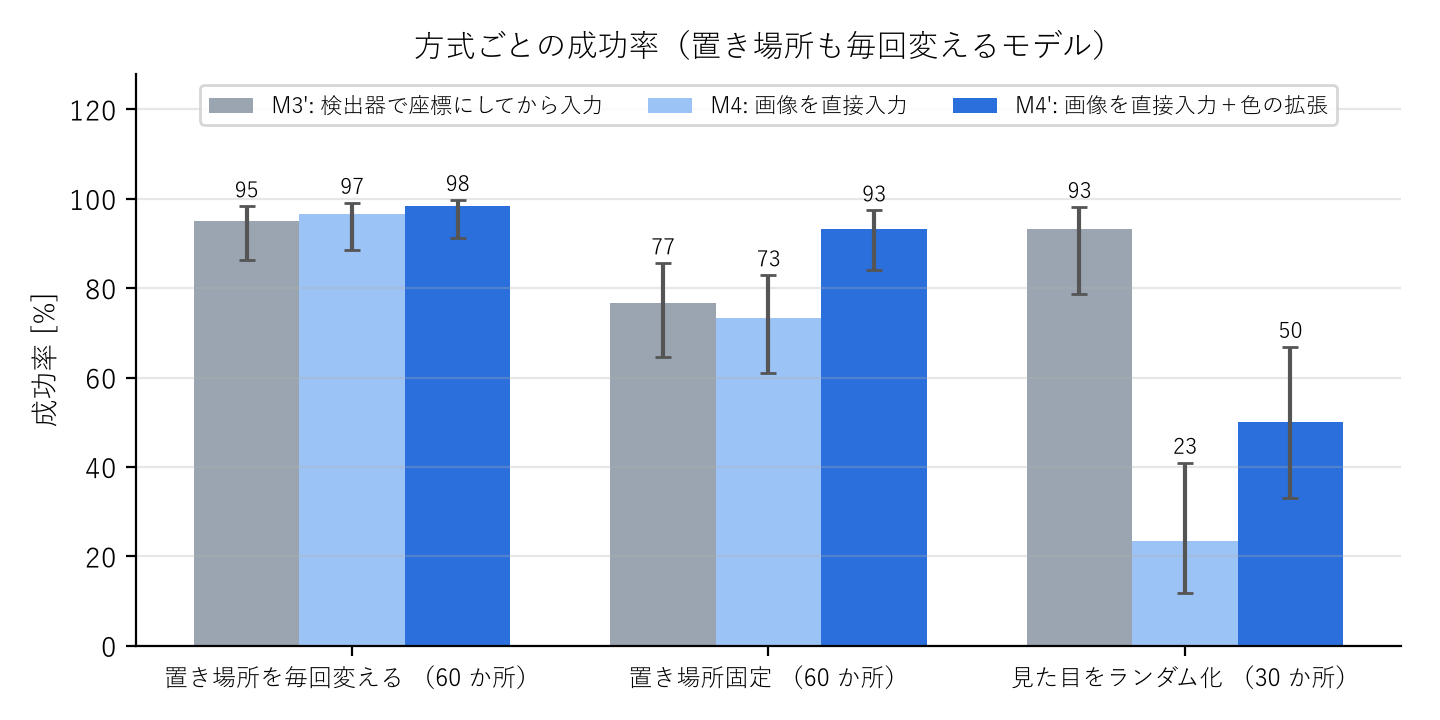
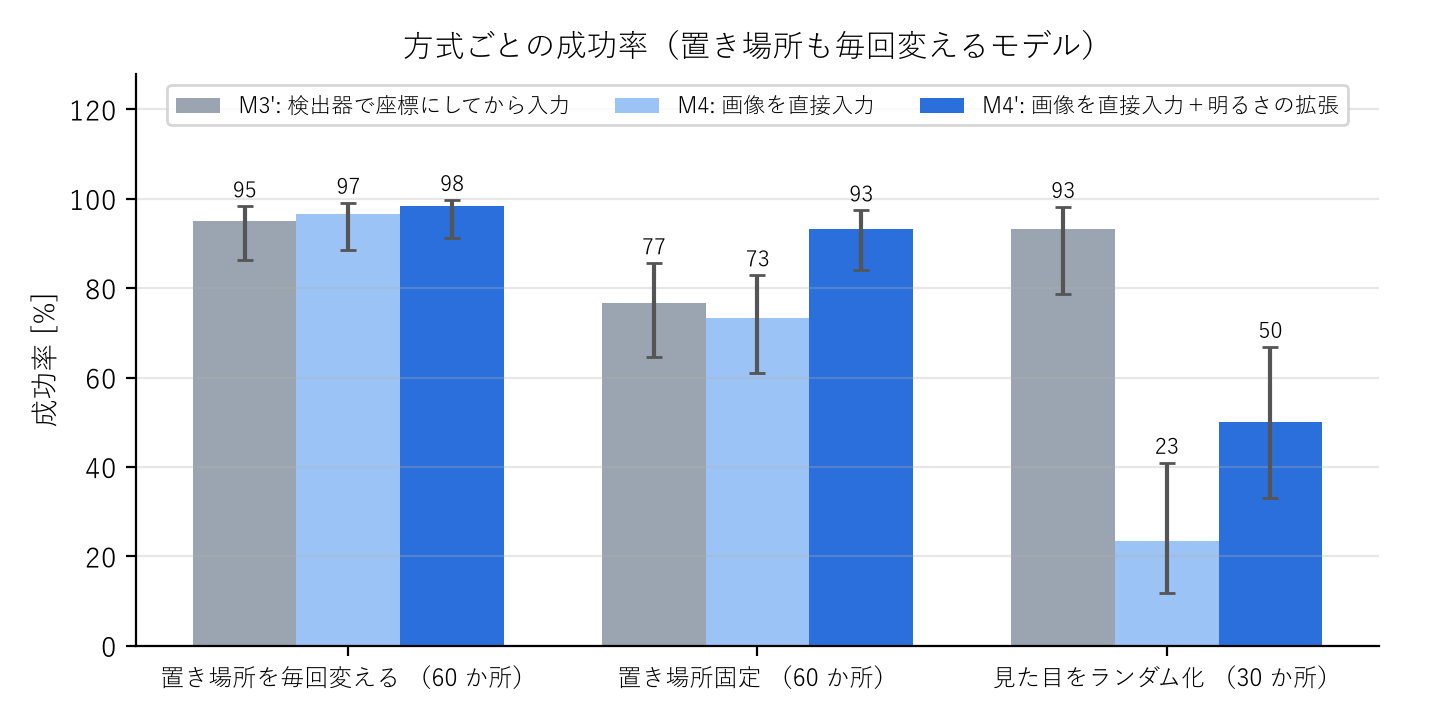
説明資料の表現を見直し: M4' を「明るさの拡張」に、5 章の課題を整理、図13 の注記を直し、DART の段落を削除
- M4' の呼び名を「色の拡張」から「明るさの拡張」に（色相はほぼ変えない）。説明資料・README・動画・ADR 0011・training_eval をそろえた
- 5 章: 検出器の項目を削除、アシストの項目を短くし「保持」に、組み合わせの項目を「置き場所の変化に敏感」に改題・短縮
- 図13（旧図14）: 注記を「位置を読み取るのは誰か」と「物体の色・照明・ダミーの箱の変化に対する頑健性」にし、箱との重なりを解消
- 4.10 の DART の段落と図を削除し、図番号を繰り下げ

diff --git a/docs/report/report.md b/docs/report/report.md
@@ -47,7 +47,7 @@ Gazebo 上のロボットアーム CRANE+ V2 に、**机の上のランダムな
 
 | 構成要素 | 内容 |
 |---|---|
-| タスク環境（ROS 2 パッケージ） | 物体のランダム配置、成功判定、把持アシスト、俯瞰カメラでの物体位置推定、自動評価 |
+| タスク環境（ROS 2 パッケージ） | 物体のランダム配置、成功判定、掴んだ物体を手先に固定するアシスト、俯瞰カメラでの物体位置推定、自動評価 |
 | ブラウザ UI | 手先位置（xyz・pitch）での操作、録画、方策の ON/OFF |
 | 学習・推論（サンプルの pai_training を fork） | 物体位置付きの変換、GPU 学習、推論ノード（rerun で予測を可視化） |
 | 開発環境 | Docker（GPU 対応）。サンプルの Docker イメージをベースに再現可能に構築 |
@@ -69,10 +69,10 @@ Gazebo 上のロボットアーム CRANE+ V2 に、**机の上のランダムな
 | M3 | 置き場所ランダムのモデル | 関節角＋物体位置＋置き場所 | 置き場所も毎回変えた 339 本 | 4.10 |
 | M3' | 〃（保持中の物体位置を据え置き） | M3 と同じ。ただし物体を保持している間（グリッパが閉じている間）は、物体位置を閉じる直前の値のまま更新しない | M3 と同じ 339 本 | 1、4.10、4.11 |
 | M4 | 画像入力のモデル | 関節角＋俯瞰カメラ画像（座標なし） | 置き場所も毎回変えた画像つき 346 本 | 4.11 |
-| M4' | 〃（色の拡張） | M4 と同じ（学習時に画像の色をランダムに変える） | M4 と同じ 346 本 | 1、4.11 |
+| M4' | 〃（明るさの拡張） | M4 と同じ（学習時に明るさ・コントラスト・彩度を変える。色相はほぼ変えない） | M4 と同じ 346 本 | 1、4.11 |
 
 <p class="note">M0〜M3' は、学習したモデルはそのままで、物体位置（・置き場所）の入力を真値・俯瞰カメラの赤色検出・学習した検出器に差し替えて評価しています。
-4.9 では M2 の学習データを人手デモに変えた変種、4.10 では M3' の学習データを倍の 701 本にした変種と外乱入りの 343 本（DART）の変種も使います。</p>
+4.9 では M2 の学習データを人手デモに変えた変種、4.10 では M3' の学習データを倍の 701 本にした変種も使います。</p>
 
 </div>
 
@@ -90,11 +90,11 @@ Gazebo 上のロボットアーム CRANE+ V2 に、**机の上のランダムな
 
 ### 4.3 スクリプトデモによる学習データの自動生成
 条件をそろえた比較実験を繰り返すため、学習データは人の操作ではなく、物体位置から IK で軌道を計画する**スクリプトデモ**で自動生成しました。
-人のテレオペと同じ経路（手先指令 → IK → 関節指令）で収録し、速度・経由点の高さ・把持位置・開始姿勢にばらつきを入れています（seed で再現可能）。
+人のテレオペと同じ経路（手先指令 → IK → 関節指令）で収録し、速度・経由点の高さ・掴む位置・開始姿勢にばらつきを入れています（seed で再現可能）。
 
 ### 4.4 temporal ensembling で実行時の誤差の蓄積を抑制
 <p class="note">使うモデル: M0・M1（3 章のモデル一覧）</p>
-学習データ上での予測誤差は小さいのに、実行すると把持位置が 1.5〜2.5cm ずれていました。毎ステップ予測した行動チャンク（0.75 秒分）の
+学習データ上での予測誤差は小さいのに、実行すると掴む位置が 1.5〜2.5cm ずれていました。毎ステップ予測した行動チャンク（0.75 秒分）の
 先頭だけを実行していたため、誤差が蓄積していたことが原因です。重なった予測を指数重みで平均する temporal ensembling を推論時に入れただけで、
 **再学習なしで成功率が 55% → 100%** になりました（図4）。
 
@@ -190,50 +190,38 @@ Gazebo 上のロボットアーム CRANE+ V2 に、**机の上のランダムな
 推論時の設定を変えても成功率は変わらず、失敗する場所が入れ替わるだけだったため、掴む動作の精度に余裕がないことが原因と考えています
 （4.11 で、失敗が物体と置き場所の組み合わせの薄い配置に集まることが分かりました。5 章）。
 
-**外乱入りのデモ（DART）**: スクリプトデモは計画どおりの軌道しか含まないため、「ずれた状態から物体の真上へ戻す」例がありません。
-そこで DART（Laskey et al., 2017）にならい、デモの収録時に**実際に動かす手先の目標にだけ最大 1cm の外乱を加え、学習のラベルには外乱なしの指令を使う**ようにしました。
-外乱は物体へ近づいて下ろす区間だけに入れ、閉じる前に 0 に戻します。同じ本数（343 本）で学習し直すと、置き場所固定では 87% → 97%（58/60）に上がり、
-左側の失敗はほぼ消えました。一方、置き場所を毎回変える課題では 97% → 88%（53/60）に下がり、正面の奥寄りで失敗が増えました（図13）。
-合計は 110/120 と 111/120 で変わらず、どちらの差も有意ではありません。失敗する場所が移っただけで、掴む精度の余裕は増えませんでした。
-
-<figure><img src="img/fig_dart.png" class="w70"><figcaption>図13 外乱入りのデモの効果（灰: M3'＝外乱なしのデモ、青: M3' と同じ観測で外乱入りのデモ（DART）。物体と置き場所の組を固定した 60 か所）</figcaption></figure>
-
 ### 4.11 画像を方策に直接入れる（追加実験）
 <p class="note">使うモデル: M3'・M4・M4'（3 章のモデル一覧）</p>
-4.10 までの方策は、カメラ画像を検出器で物体・置き場所の座標（数値）にしてから受け取っていました。これと、**画像を方策に直接入れ、座標を一切与えない**方式（M4・M4'）を比べました（図14）。
+4.10 までの方策は、カメラ画像を検出器で物体・置き場所の座標（数値）にしてから受け取っていました。これと、**画像を方策に直接入れ、座標を一切与えない**方式（M4・M4'）を比べました（図13）。
 ACT は画像を ImageNet で事前学習した ResNet18 で読み込み、関節角とあわせて行動を出力します。学習データは 4.10 と同じ条件・seed のスクリプトデモを
 俯瞰カメラの画像つきで収録し直した 346 本で、学習は同じ 80k step です。
 
-<figure><img src="img/image_vs_detector.svg" class="w90"><figcaption>図14 カメラ画像を方策に渡す 2 つの方式（(a) 検出器で座標にしてから入力＝M3'、(b) 画像を直接入力＝M4・M4'）</figcaption></figure>
+<figure><img src="img/image_vs_detector.svg" class="w90"><figcaption>図13 カメラ画像を方策に渡す 2 つの方式（(a) 検出器で座標にしてから入力＝M3'、(b) 画像を直接入力＝M4・M4'）</figcaption></figure>
 
 - **置き場所を毎回変える課題**では、座標を与えなくても検出器経由と同等に運べました（検出器経由 95%、画像直接 97%）。
 - **置き場所固定の元の課題**（置き場所は範囲の右奥の角）では、画像直接は 73% に下がりました。物体の真上までは行くのに高さ 4.4cm でグリッパを閉じて掴み損ねており、
   置き場所を左右反転したり数 cm 内側にずらすと、同じ物体位置で成功しました。範囲の角の置き場所と左寄りの物体の組み合わせは、ランダムに集めたデモ 346 本に 1〜2 本しかなく、
   そこを補間できていないと考えています（検出器経由の失敗も同じ左寄りの配置に集まっています）。
-  学習時に画像の**明るさ・コントラスト・彩度・色相をランダムに変える拡張**を入れると（M4'）93% に上がり、検出器経由（77%）を上回りました（Fisher の正確検定 p≈0.02）。
-  色や明るさの細かい見え方に頼っていたことが、崩れの一因だったと考えられます。
-- **見た目をランダム化したシーン**では、画像直接は 23%（色の拡張ありで 50%）にとどまり、検出器経由（93%）に及びませんでした。
+  学習時に画像の**明るさ・コントラスト・彩度をランダムに変える拡張**（色相はほぼ変えない）を入れると（M4'）93% に上がり、検出器経由（77%）を上回りました（Fisher の正確検定 p≈0.02）。
+  色や明るさの細かい見え方に頼っていたことが、失敗の一因だったと考えられます。
+- **見た目をランダム化したシーン**では、画像直接は 23%（明るさの拡張ありで 50%）にとどまり、検出器経由（93%）に及びませんでした。
   ただしこの差には学習データの違いも含まれます。検出器は見た目をランダム化した静止画で学習していますが、画像直接の方策は元の見た目のデモだけで学習しています。
 
-画像を直接入れる方式は、座標の設計や検出器がなくても学習データの範囲内では同等に動きます。一方で、見た目への強さも方策自身が学ぶ必要があり、
-強くするには見た目を変えたシーンでデモ（ロボットの動作）を集め直す必要があります。検出器を挟む方式では、それが静止画の収集だけで済みます。
+画像を直接入れる方式は、座標の設計や検出器がなくても学習データの範囲内では同等に動きます。一方で、物体の色・照明・ダミーの箱の変化に対する頑健性も方策自身が学ぶ必要があり、
+そのためには見た目を変えたシーンでデモ（ロボットの動作）を集め直す必要があります。検出器を挟む方式では、それが静止画の収集だけで済みます。
 今回は同じデモで学習した場合の比較として、見た目への対策はあえて加えていません。
 
-<figure><img src="img/fig_image_direct.png" class="w80"><figcaption>図15 方式ごとの成功率（灰: M3'＝検出器経由、水色: M4＝画像を直接入力、青: M4'＝画像を直接入力＋色の拡張。物体と置き場所の組を固定した 60 か所、見た目のランダム化は 30 か所）</figcaption></figure>
+<figure><img src="img/fig_image_direct.png" class="w80"><figcaption>図14 方式ごとの成功率（灰: M3'＝検出器経由、水色: M4＝画像を直接入力、青: M4'＝画像を直接入力＋明るさの拡張。物体と置き場所の組を固定した 60 か所、見た目のランダム化は 30 か所）</figcaption></figure>
 
 ## 5. 課題と今後
 
 - **人のデモでは学習できていない**: 人手デモ 21 本では成功せず、混ぜると成功率が下がりました（4.9）。操作の一貫性をそろえたデモでの再検証が残っています。
-- **物体検出器はシミュレーション画像だけで学習**: 見た目の変化には強くなりましたが、実機の画像での動作は未確認です。
-  シミュレーションでは正解の枠が正確で輪郭もくっきりしているため、0.28mm という精度は実機では期待できません。また、カメラの取り付け位置は既知としています。
-- **掴む動作のアシスト**: Gazebo では指の摩擦だけで掴んだ物体が滑り落ちるため、グリッパが閉じ、物体が手先から 2cm 以内にあるときに物体を手先に固定するアシストを使っています。
-  実機では把持の安定性を別途確認する必要があります。
+- **掴む動作のアシスト**: Gazebo では指の摩擦だけでは掴んだ物体が滑り落ちるため、グリッパが閉じたら物体を手先に固定するアシストを使っています。
+  実機では物体を保持できるかを別途確認する必要があります。
 - **データ量の交絡**: 開始姿勢ばらつきデモの追加ではデータ量も 2 倍になっています。過去にデータを 41 → 117 回に増やしても成功率は変わらなかったため、
   主因は開始姿勢の多様性と考えていますが、同数での比較は未実施です。
-- **物体と置き場所の組み合わせが学習データで薄い配置で失敗する（追加実験）**: 置き場所も毎回変えるモデルは 30 回中 1〜6 回、
-  狙いが数 mm ずれる、または浅い高さで閉じて物体を持ち上げられません。置き場所固定（範囲の右奥の角）では M3' でも M4' でも同じ左寄りの物体で失敗が集まり、
-  置き場所を数 cm 内側にずらすと成功します。この組み合わせはデモ 339〜346 本に 1〜2 本しかなく、置き場所固定だけで学習した M2 は同じ配置で 100%（60/60）です。
-  掴む精度の余裕のなさは、こうした配置で方策が補間できないことが主な原因と考えています。ただしデモを一様に倍にしても、外乱入りのデモ（DART）でも改善せず、
-  置き場所の選び方の工夫も、この範囲（腕が届く細い帯）では角の付近の例を 3 割ほどしか増やせないと試算して見送りました。腕の追従の遅れも、ずれを大きくしています。
-  掴む直前に止まって位置を合わせる動きをデモに入れる、行動を物体から見た手先の位置で表す（位置の組み合わせによらない動きとして学べる）、などが次の候補です。
+- **置き場所の変化に敏感（追加実験）**: 置き場所も毎回変えるモデルは、置き場所が少し変わるだけで結果が変わります。
+  置き場所固定（範囲の右奥の角）では M3'・M4' とも同じ左寄りの物体で掴み損ねますが、置き場所を数 cm 内側にずらすと成功します。
+  学習データにほとんどない組み合わせ（339〜346 本中 1〜2 本）で失敗するため、学習していない置き場所への頑健性の不足が懸念されます。
+  デモを倍にしても、手先の目標にわざと外乱を加えたデモ（DART）で学習しても改善しませんでした。行動を物体から見た手先の位置で表すなど、置き場所に依存しにくい表し方が次の候補です。
 - **画像を直接入れる方式の見た目への弱さ（追加実験）**: 見た目をランダム化したシーンでは 50% にとどまります。見た目を変えたシーンでのデモの収集が次の候補です。

diff --git a/docs/design/training_eval/training_eval.md b/docs/design/training_eval/training_eval.md
@@ -8,7 +8,7 @@ pixi run --frozen train --config configs/pick/train_objpos.yaml --device cpu --s
 - 追加設定: `wandb_mode`（既定 disabled）, `seed`, `episodes`, `weight_decay`, `act`（ACTConfig 追加引数）
 - 学習時間・ms/step・最終 loss を `<output_directory>/train_info.json` に保存（CPU/GPU 比較用）
 - 観測は `delta_timestamps` にある `observation.*` をすべて最新の 1 時刻に絞って ACT に渡す（状態・カメラ画像とも）
-- `image_transforms` 節で学習時の画像の拡張を指定できる（`pai_training.augmentation` → LeRobot の ImageTransforms。省略時は拡張なし。実験14 の色の拡張）
+- `image_transforms` 節で学習時の画像の拡張を指定できる（`pai_training.augmentation` → LeRobot の ImageTransforms。省略時は拡張なし。実験14 の明るさの拡張）
 - カメラ画像を使うモデルは、画像の backbone（ImageNet 学習済み ResNet18）だけ学習率を `act.optimizer_lr_backbone`（既定 1e-5）にする（`policy.get_optim_params()`。ACT 論文・LeRobot と同じ。ADR 0011）
 - `delta_timestamps.action` は 20fps に合わせ 0.0〜0.75s の 16 ステップ。演習設定は -0.1s 始まりで、`n_action_steps: 1` だと実行される行動が 0.1s 前のものになっていた
 
@@ -531,17 +531,17 @@ pixi run --frozen debug-policy --dataset-root ... --repo-id ... --policy-path ..
   `pipeline_image.sh` では seed 0 の見た目ランダム化の後に環境を起動し直していないので、seed 1 の 2 つの評価（置き場所ランダム 30/30・置き場所固定 18/30）はこの色で行われた。
   置き場所固定の失敗配置では元の色でも 1/6 なので結論は変わらないが、厳密には seed 1 は条件が違う。`pipeline_dart.sh`・`pipeline_placerand_x2.sh` も見た目ランダム化の後に評価を続けているが、後の評価は真値を入力するモデル（画像を使わない）なので影響はない
 
-#### 色の拡張と、seed 1 の評価し直し（2026-10-17）
-- 色の拡張: 学習時に画像の明るさ（0.5〜1.2 倍）・コントラスト（0.7〜1.3 倍）・彩度（0.4〜1.3 倍）・色相（±0.03）・シャープネスをランダムに変える（1 フレームに最大 3 つ）。
+#### 明るさの拡張と、seed 1 の評価し直し（2026-10-17）
+- 明るさの拡張（当初の呼び名は「色の拡張」。色相はほぼ変えないので 2026-10-17 に改めた）: 学習時に画像の明るさ（0.5〜1.2 倍）・コントラスト（0.7〜1.3 倍）・彩度（0.4〜1.3 倍）・色相（±0.03）・シャープネスをランダムに変える（1 フレームに最大 3 つ）。
   範囲は見た目ランダム化の幅に合わせ、色相は物体（赤）と置き場所（青）の区別を保つよう狭くした。位置を動かす拡張は入れない（1px ≈ 1.5mm で、掴む精度を落とすおそれ）。
   データ（346 本）・学習 step などは拡張なしと同じ。設定 `configs/pick/{train,infer}_image_color.yaml`、モデル `crane_plus_pick_image_color_act`、学習 80k step で約 2 時間（92 ms/step）
 - 実行: `SKIP_COLLECT=1 SKIP_CONVERT=1 TRAIN_CFG=... INFER_CFG=... LABEL=image_color bash scripts/sim/pipeline_image.sh`
 - seed 1 の評価し直し: パイプラインは seed 0 の見た目ランダム化の後に seed 1 を評価するため、置き場所の円の色が戻らない不具合（上記）の影響を受ける。
-  環境を起動し直してから、拡張なし・色の拡張の両モデルの seed 1（置き場所ランダム・固定）を評価し直した（ラベル `*_s1_fresh`、見た目ランダム化は挟まない）
+  環境を起動し直してから、拡張なし・明るさの拡張の両モデルの seed 1（置き場所ランダム・固定）を評価し直した（ラベル `*_s1_fresh`、見た目ランダム化は挟まない）
 
 評価（制限時間 40 秒。seed 1 は評価し直した値。A' は置き場所を画像で見ないので不具合の影響はない）:
 
-| 条件 | A'（数値の真値） | 画像入力（拡張なし） | 画像入力（色の拡張） |
+| 条件 | A'（数値の真値） | 画像入力（拡張なし） | 画像入力（明るさの拡張） |
 |---|---|---|---|
 | 置き場所ランダム seed 0 | 29/30 | 29/30 | 30/30 |
 | 置き場所ランダム seed 1 | 29/30 | 29/30 | 29/30 |
@@ -551,14 +551,14 @@ pixi run --frozen debug-policy --dataset-root ... --repo-id ... --policy-path ..
 | 置き場所固定 計 | 52/60（87%） | 44/60（73%） | **56/60（93%）** |
 | 見た目ランダム化 seed 0 | **28/30**（学習した検出器） | 7/30 | 15/30 |
 
-- 色の拡張で置き場所固定が 44/60 → 56/60 に上がった（Fisher の正確検定 p≈0.006）。A' の 52/60 との差は有意でない（p≈0.36）。
-  色の拡張モデルは置き場所ランダム 59/60 と置き場所固定 56/60 の差も有意でない（p≈0.36）。
+- 明るさの拡張で置き場所固定が 44/60 → 56/60 に上がった（Fisher の正確検定 p≈0.006）。A' の 52/60 との差は有意でない（p≈0.36）。
+  明るさの拡張モデルは置き場所ランダム 59/60 と置き場所固定 56/60 の差も有意でない（p≈0.36）。
   残った失敗 4 件はすべて持ち上げる前の時間切れで、物体は左前寄り（x 0.08〜0.10, y 0.02〜0.04）
-- 外縁で崩れる原因の一部は、画像の色・明るさの細かい見え方への依存だったと考えられる（色の拡張で依存が弱まると外縁でも崩れにくくなった）。仕組みは特定していない
+- 外縁で崩れる原因の一部は、画像の色・明るさの細かい見え方への依存だったと考えられる（明るさの拡張で依存が弱まると外縁でも崩れにくくなった）。仕組みは特定していない
 - 見た目ランダム化は 7/30 → 15/30（p≈0.06）。色・明るさの変化には強くなったが、A'（検出器を挟んで 28/30）には届かない（p<0.001）。
-  見た目ランダム化には照明の向き（影）や邪魔な箱も含まれ、色の拡張では扱えない。失敗 15 件のうち 13 件は持ち上げる前、2 件は持ち上げた後
-- 置き場所の色が戻らない状態での seed 1（参考値。比較には使わない）: 拡張なし 置き場所ランダム 30/30・固定 18/30、色の拡張 29/30・26/30。
-  拡張なしは置き場所の見た目の変化で固定が 23 → 18/30 に下がり、色の拡張は 27 → 26/30 とほぼ変わらない
+  見た目ランダム化には照明の向き（影）や邪魔な箱も含まれ、明るさの拡張では扱えない。失敗 15 件のうち 13 件は持ち上げる前、2 件は持ち上げた後
+- 置き場所の色が戻らない状態での seed 1（参考値。比較には使わない）: 拡張なし 置き場所ランダム 30/30・固定 18/30、明るさの拡張 29/30・26/30。
+  拡張なしは置き場所の見た目の変化で固定が 23 → 18/30 に下がり、明るさの拡張は 27 → 26/30 とほぼ変わらない
 - 上の「本番」の表の seed 1（拡張なし 30/30・18/30）とそれを含む合計（59/60・39/60）は不具合の状態の値で、正しくはこの表の値（58/60・44/60）
 - 不具合の修正（2026-10-17）: `scene_randomizer.restore()` が置き場所を world の SDF と同じ不透明度 0.6 で戻すようにした（`DEFAULT_PLACE_ALPHA`、テストで SDF と照合）。
   ランダム化の最中の置き場所は、これまでの評価・検出器の学習データとそろえるため不透明のまま。
@@ -566,7 +566,7 @@ pixi run --frozen debug-policy --dataset-root ... --repo-id ... --policy-path ..
   これで見た目ランダム化の後に続けて評価しても条件は変わらない。`pipeline_dart.sh` の `tee /dev/stderr` も修正
 
 #### 置き場所の選び方を変える対策の試算（2026-10-17, 実施せず）
-置き場所固定の失敗は、A' と画像入力（色の拡張）で同じ配置に集まる（A' の 8 件・色の拡張の 4 件とも物体が左寄り y > 0.015。seed 1 の試行 10・13 は両方で失敗）。
+置き場所固定の失敗は、A' と画像入力（明るさの拡張）で同じ配置に集まる（A' の 8 件・明るさの拡張の 4 件とも物体が左寄り y > 0.015。seed 1 の試行 10・13 は両方で失敗）。
 「左寄りの物体 × 範囲の右奥の角の置き場所」という組み合わせが学習データで薄い（346 本中 1〜2 本程度）ことが共通の原因と考え、収録時の置き場所の選び方を変える案を試算した（400 本、5 回の平均）。
 
 | 選び方 | 置き場所が固定位置から 2cm 以内 | 3cm 以内 | うち物体が左寄り | 範囲の内側（r < 0.13, \|y\| < 0.10） |
@@ -586,12 +586,12 @@ pixi run --frozen debug-policy --dataset-root ... --repo-id ... --policy-path ..
 説明資料（4.11）で「画像を検出器で座標にしてから入れる方式」と「画像を方策に直接入れる方式」を同じ配置で比べるため、
 A' を 2 クラスの検出器（RT-DETRv2）で動かして未評価の 3 条件を評価した（`latch_learned_s1`・`latch_learned_fixedplace`・`latch_learned_fixedplace_s1`）。
 
-| 条件 | A'（検出器経由） | 画像直接（拡張なし） | 画像直接（色の拡張） |
+| 条件 | A'（検出器経由） | 画像直接（拡張なし） | 画像直接（明るさの拡張） |
 |---|---|---|---|
 | 置き場所ランダム（seed 0 + 1） | 57/60（28 + 29） | 58/60 | 59/60 |
 | 置き場所固定（seed 0 + 1） | 46/60（25 + 21） | 44/60 | **56/60** |
 | 見た目ランダム化（seed 0） | **28/30** | 7/30 | 15/30 |
 
-- 置き場所固定は色の拡張が検出器経由を上回る（56 vs 46/60、p≈0.019）。A' は検出器経由だと真値（52/60）より下がる（p≈0.24、有意でない）
+- 置き場所固定は明るさの拡張が検出器経由を上回る（56 vs 46/60、p≈0.019）。A' は検出器経由だと真値（52/60）より下がる（p≈0.24、有意でない）
 - A' の検出器経由の置き場所固定の失敗 14 件のうち 11 件は持ち上げる前で、物体は左寄り（y 0.015〜0.08）が中心。3 件は持ち上げた後
 - 置き場所ランダムは 3 方式で差がない（57・58・59/60）

diff --git a/docs/work_log/20261017.md b/docs/work_log/20261017.md
@@ -89,6 +89,32 @@
 - 5 章の「掴む精度に余裕がない」と「画像を直接入れる方式」の後半を、「物体と置き場所の組み合わせが学習データで薄い配置で失敗する」に統合。
   4.10「残る失敗の分析」の結論に 4.11 への参照を追加。PDF は 9 ページのまま（ブランチ docs/report-limitations）
 
+### M4' の呼び名「色の拡張」→「明るさの拡張」（ユーザーの指摘）
+- ユーザーの指摘: M4' は色の拡張を入れたとあるのに、見た目ランダム化での性能が低いのは違和感がある（表現の問題では）
+- 確認: 拡張は画像全体の明るさ・コントラスト・彩度を変えるだけで、色相は ±0.03 とほぼ変えない（物体の赤と置き場所の青を見分けるため）。
+  見た目ランダム化は物体・置き場所の色相そのもの（何色にもなる）、ダミーの箱、照明の向き（影）も変えるので、この拡張では扱えない
+- ユーザー判断（案 1）: 呼び名を「明るさの拡張」にし、一覧表に「色相はほぼ変えない」と明記。説明資料（表・4.11・図15）、README、動画（表・一覧）、
+  ADR 0011・training_eval（当初の呼び名を注記）をそろえた。fork の設定ファイル名（`*_image_color.yaml`）と過去の作業ログはそのまま。PDF は 9 ページ、動画は 2 分 56 秒（ブランチ docs/brightness-augmentation）
+
+### 説明資料 5 章「課題と今後」の見直し（ユーザーの指摘）
+- 「物体検出器はシミュレーション画像だけで学習」: 今回はすべてシミュレーションで学習しているので検出器に限らない → 削除
+- 「掴む動作のアシスト」: 細かい数値を省き「グリッパが閉じたら物体を手先に固定するアシスト」に。「把持」は分かりにくいので「保持」に
+  （本文の「把持アシスト」「把持位置」も言い換え。タイトルの「把持・配置タスク」は課題名なのでそのまま）
+- 組み合わせが薄い配置での失敗の項目: タイトルが長く「で」が重なる、全体が長い → 「置き場所の変化に敏感」に改題し（「崩れる」は「失敗する」に）、
+  「敏感 → 学習していない置き場所への頑健性の不足が懸念 → デモを倍にしても外乱入りのデモでも改善しない → 次の候補」の流れで 4 行に短縮。PDF は 9 ページ
+
+### 図14 の注記の見直し（ユーザーの指摘）
+- ユーザーの指摘: 図14 の「見た目への強さ」より「物体の位置関係」のほうが自然では → 同意（図の主張は「画像から位置を読み取るのは誰か」）。
+  1 行目を構造の違い（(a) 位置を読み取るのは検出器、(b) 位置の読み取りも方策が画像から学ぶ）、2 行目をそこから生じる違いにした
+- ユーザーの指摘: 「見た目の変化への強さ」は曖昧 →「物体の色・照明・ダミーの箱の変化に対する頑健性」（見た目ランダム化で実際に変えている要素）。4.11 本文もそろえた
+- 注記が長くなり関節角の箱に重なったので、注記を箱の下に移して図の高さを広げた。PDF は 9 ページ
+
+### 説明資料から DART の段落を削除（ユーザーの指摘）
+- ユーザーの指摘: 4.10 の外乱入りのデモ（DART）の出方が唐突。削るか、分かりやすい位置へ移すか
+- 提案・ユーザー判断: 削る。結果は合計が変わらず失敗する場所が移っただけで、4.10 の本筋に成果を足さない。結論は 5 章「置き場所の変化に敏感」の 1 文で足りる
+- 4.10 の DART の段落と図13（fig_dart.png）を削除し、図14・15 を 13・14 に繰り下げ。3 章のモデル一覧の注記から DART の変種を外し、
+  5 章の初出に「手先の目標にわざと外乱を加えたデモ」と説明を付けた。README・ADR 0010・training_eval の DART の記録は残す。PDF は 9 ページ
+
 ## 次にやること
 （凡例: [x] 完了 / [~] 一部完了 / [ ] 未着手）
 - [ ] 提出（omnicampus に PDF と GitHub URL、YouTube に動画。10/19〜11/2 AM10:00。ユーザー操作。10/11 から引き継ぎ）

diff --git a/docs/decision/0011-カメラ画像を入力する方策.md b/docs/decision/0011-カメラ画像を入力する方策.md
@@ -42,10 +42,11 @@ A 案を採る（2026-10-16 ユーザー決定）。
     評価手順の違い・学習デモの違いは否定。対策の候補は外縁の置き場所のデモ追加、画像の拡張（未実施）
 - 見た目ランダム化: 7/30（A' は検出器を挟んで 28/30）。見た目の変化には弱い
 
-色の拡張と seed 1 の評価し直し（2026-10-17、training_eval の実験14「色の拡張と、seed 1 の評価し直し」）:
+明るさの拡張と seed 1 の評価し直し（2026-10-17、training_eval の実験14「明るさの拡張と、seed 1 の評価し直し」）:
 - 見た目ランダム化の後に置き場所の色が戻らない不具合のため、上の seed 1 は条件が違っていた。評価し直すと拡張なしは置き場所ランダム 58/60・置き場所固定 44/60
-- 学習時に色の拡張（明るさ・コントラスト・彩度・色相・シャープネス）を加えると、置き場所ランダム 59/60、置き場所固定 56/60（拡張なし 44/60 から p≈0.006 で改善、A' の 52/60 と有意差なし）、
-  見た目ランダム化 15/30（7/30 から改善するが、A' の 28/30 には届かない）
+- 学習時に明るさの拡張（画像全体の明るさ・コントラスト・彩度・シャープネス。物体の赤と置き場所の青を見分けられるよう色相は ±0.03 とほぼ変えない）を加えると、置き場所ランダム 59/60、置き場所固定 56/60（拡張なし 44/60 から p≈0.006 で改善、A' の 52/60 と有意差なし）、
+  見た目ランダム化 15/30（7/30 から改善するが、A' の 28/30 には届かない。見た目ランダム化は物体・置き場所の色相そのもの、ダミーの箱、照明の向きによる影も変えるため、この拡張では扱えない）
+- 呼び名: 当初「色の拡張」と呼んでいたが、色相はほぼ変えないので「明るさの拡張」に改めた（2026-10-17、ユーザーの指摘）
 - 見た目ランダム化での差には学習データの違いも含まれる（検出器は見た目ランダム化した画像で学習、画像入力の方策は元の見た目のデモのみ）。
   画像入力の方策を見た目の変化に強くするには、ランダム化したシーンでデモを集め直す必要がある
 
